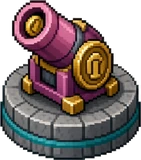
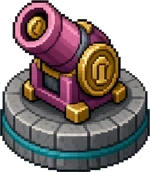
Tower Defense: Comrades and Slop Cannon turn to face up, down and sideways
Brian's Grok sheets give each gun three paintings: facing you, facing
away and facing left (flipped for right). A tower shows whichever is
closest to its aim, with some give near the diagonals so it doesn't
flicker. Facing you or away, the twin gun punches instead of sliding,
and the muzzle flash alternates between its barrels.

td_art.py gains --center-base, so a painting whose barrels stick out to
one side still stands on the middle of its pedestal.

Claude-Session: https://claude.ai/code/session_015YU1nTMxka9UNEvD74o9D1

diff --git a/js/td.js b/js/td.js
@@ -166,7 +166,8 @@
   // in pixels is its size on the map. Each one is redrawn once per screen size onto a canvas at the exact
   // size it's stamped at, so the frame stays cheap on a phone.
   var ART = 'art/td/', PPT = 160;
-  var PIC_NAMES = ['hearing-map', 'tower-strike', 'tower-privacy', 'tower-mint', 'tower-rug', 'enemy-walker', 'enemy-swarm', 'enemy-sprinter',
+  var PIC_NAMES = ['hearing-map', 'tower-strike', 'tower-strike-down', 'tower-strike-up', 'tower-privacy', 'tower-mint', 'tower-mint-down',
+    'tower-mint-up', 'tower-rug', 'enemy-walker', 'enemy-swarm', 'enemy-sprinter',
     'enemy-support', 'enemy-armored', 'enemy-flyer', 'enemy-boss', 'node-toly', 'node-toly-lights'];
   var PICS = {}, picsReady = null;
   function loadPics() {
@@ -210,20 +211,42 @@
     ctx.restore();
   }
 
-  // The towers face left as painted, and flip to face a target on the right. Above CUT (a fraction of the
-  // height) is the part that recoils when it fires; below it, the pedestal stays put. MUZZLE: the gun's
-  // barrel tips, in tiles from the spot it stands on, for the muzzle flash.
-  var TOWER_CUT = { strike: 0.6, privacy: 1, mint: 0.62, rug: 0.6 };
-  var MUZZLE = { x: -0.36, y: -0.4 };
+  // A tower that aims has three paintings: facing left (flipped to face right), facing down (toward you)
+  // and facing up (away from you). The guns turn to whichever is closest to their target. Above CUT (a
+  // fraction of the height) is the part that recoils when it fires; below it, the pedestal stays put.
+  // MUZZLE: the barrel tips, in tiles from the spot it stands on, for the muzzle flash (two: a twin gun's
+  // barrels sit that far either side). Every sheet is cut so the pedestals are PEDESTAL tiles across.
+  var VIEWS = { strike: ['side', 'down', 'up'], mint: ['side', 'down', 'up'], privacy: ['side'], rug: ['side'] };
+  var TOWER_CUT = {
+    strike: { side: 0.59, down: 0.55, up: 0.61 }, mint: { side: 0.7, down: 0.64, up: 0.69 },
+    privacy: { side: 1 }, rug: { side: 0.6 }
+  };
+  var MUZZLE = { side: { x: -0.36, y: -0.4 }, down: { x: 0, y: -0.3, two: 0.13 }, up: { x: 0, y: -0.84, two: 0.1 } };
+  var PEDESTAL = 0.76;
   function buildTowerSprites() {
     var out = {};
     C.ORDER.forEach(function (type) {
-      var name = 'tower-' + type, im = PICS[name], cut = TOWER_CUT[type];
-      // it stands on the middle of its pedestal's round footprint
-      var ay = im && im.naturalWidth ? 1 - 0.19 * im.naturalWidth / im.naturalHeight : 0.85;
-      out[type] = { whole: pic(name, 0.5, ay), base: pic(name, 0.5, ay, 1, cut, 1), top: cut < 1 ? pic(name, 0.5, ay, 1, 0, cut) : null, cut: cut };
+      out[type] = {};
+      VIEWS[type].forEach(function (view) {
+        var name = 'tower-' + type + (view === 'side' ? '' : '-' + view), im = PICS[name], cut = TOWER_CUT[type][view];
+        // it stands on the middle of its pedestal's round footprint
+        var ay = im && im.naturalWidth ? 1 - 0.19 * PEDESTAL * PPT / im.naturalHeight : 0.85;
+        out[type][view] = { whole: pic(name, 0.5, ay), base: pic(name, 0.5, ay, 1, cut, 1), top: cut < 1 ? pic(name, 0.5, ay, 1, 0, cut) : null, cut: cut };
+      });
     });
     return out;
+  }
+  // Which way a tower shows, from its aim, with some give so it doesn't flicker near a diagonal.
+  function towerView(t) {
+    var cx = Math.cos(t.angle), sy_ = Math.sin(t.angle), v = t._view || 'side';
+    if (VIEWS[t.type].length > 1) {
+      if (v === 'side') { if (sy_ > 0.8) v = 'down'; else if (sy_ < -0.8) v = 'up'; }
+      else if (Math.abs(sy_) < 0.6) v = 'side';
+      else v = sy_ > 0 ? 'down' : 'up';
+    }
+    if (cx > 0.2) t._flip = true; else if (cx < -0.2) t._flip = false;
+    t._view = v;
+    return v;
   }
   // Enemies are drawn a bit over their cut size, so the people read on a phone, and the Filibuster towers
   // over the filing cabinets. The people also get a little size variety, so a crowd doesn't look stamped.
@@ -543,7 +566,9 @@
       case 'fire':
         ev.t.kick = 1;
         if (ev.t.type === 'strike') {
-          var dir = Math.cos(ev.t.angle) > 0 ? 1 : -1, mx = sx(ev.t.x) - dir * MUZZLE.x * T, my = towerY(ev.t) + MUZZLE.y * T;
+          var view = towerView(ev.t), mz = MUZZLE[view], dir = ev.t._flip ? 1 : -1, mx, my = towerY(ev.t) + mz.y * T;
+          if (view === 'side') mx = sx(ev.t.x) - dir * mz.x * T;
+          else { ev.t._barrel = !ev.t._barrel; mx = sx(ev.t.x) + (ev.t._barrel ? 1 : -1) * mz.two * T; }
           fx({ kind: 'flash', x: mx, y: my, life: 0.07, max: 0.07, color: 'strike', size: 0.9 });
           sfx('td.pew', 45);
         } else if (ev.t.type === 'mint') sfx('td.thump', 80);
@@ -773,7 +798,7 @@
   }
 
   function drawTower(c, t, now, dt) {
-    var T = S.T, sp = S.spr.tower[t.type], X = sx(t.x), Y = towerY(t);
+    var T = S.T, view = towerView(t), sp = S.spr.tower[t.type][view], X = sx(t.x), Y = towerY(t);
     var k = TIER_SCALE[t.tier || 1];
     if (t.pop > 0) { t.pop -= dt; var q = 1 - t.pop / 0.3; k *= 0.5 + q * 0.5 + Math.sin(q * Math.PI) * 0.25; }
     t.kick = Math.max(0, (t.kick || 0) - dt * 8);
@@ -785,10 +810,7 @@
       c.globalAlpha = 1; c.globalCompositeOperation = 'source-over';
       if (t.tier === 3 && Math.random() < dt * 3) spark(X + rnd(-0.4, 0.4) * T, Y - rnd(0.2, 1) * T, t.path === 'a' ? ROLE[t.type].l : '#ffd23f', 1, T * 0.6, 0.5);
     }
-    // face the target, with a little give so it doesn't flicker on one straight above or below
-    var cx = Math.cos(t.angle);
-    if (cx > 0.2) t._flip = true; else if (cx < -0.2) t._flip = false;
-    var fl = t._flip ? -1 : 1;
+    var fl = view === 'side' && t._flip ? -1 : 1;
     if (k !== 1) { c.save(); c.translate(X, Y); c.scale(k, k); c.translate(-X, -Y); }
     c.fillStyle = 'rgba(0,0,0,.3)';
     c.beginPath(); c.ellipse(X, Y + T * 0.06, T * 0.46, T * 0.17, 0, 0, Math.PI * 2); c.fill();
@@ -797,7 +819,8 @@
       stampT(c, sp.base, X, Y, 0, fl, 1);
       var cutY = Y - (sp.top.ay - sp.cut * sp.top.h) * T;   // where the turret meets the pedestal
       c.save();
-      if (t.type === 'strike') c.translate(fl * t.kick * T * 0.07, 0);                       // recoil away from the target
+      if (t.type === 'strike' && view === 'side') c.translate(fl * t.kick * T * 0.07, 0);    // recoil away from the target
+      else if (t.type === 'strike') { c.translate(X, cutY); c.scale(1 + t.kick * 0.04, 1 - t.kick * 0.09); c.translate(-X, -cutY); }  // facing you or away: it punches
       else if (t.type === 'mint') { c.translate(X, cutY); c.scale(1 + t.kick * 0.08, 1 - t.kick * 0.14); c.translate(-X, -cutY); }  // the mortar squashes
       else if (t.type === 'rug') c.translate(-fl * t.kick * T * 0.06, 0);                    // the frame lunges at it
       stampT(c, sp.top, X, Y, 0, fl, 1);
@@ -1120,7 +1143,7 @@
     rangeCircle(c, at.c + 0.5, at.r + 0.5, h, range, type, true);
     c.globalAlpha = 0.65;
     var X = sx(at.c + 0.5), Y = sy(at.r + 0.5, h) + T * 0.1;
-    stamp(c, S.spr.tower[type].whole, X, Y);
+    stamp(c, S.spr.tower[type].side.whole, X, Y);
     c.globalAlpha = 1;
     c.strokeStyle = ok ? '#3ddc97' : '#ff4d4d'; c.lineWidth = 2.5;
     c.strokeRect(sx(at.c) + 1.5, sy(at.r, h) + 1.5, T - 3, T - 3);

diff --git a/tools/td_art.py b/tools/td_art.py
@@ -13,6 +13,11 @@ its size in tiles from its size in pixels.
 --ppt: how many source pixels make one map tile (bigger number, smaller sprite).
 --gap x,y: a white pocket inside the art to clear (the space inside a frame), as in tools/art.py.
 
+--center-base pads each one sideways so the middle of its pedestal (its bottom rows) is the middle of
+the picture, so a tower whose barrels stick out to one side still stands on its pedestal's center.
+
+  python3 tools/td_art.py sheet SOURCE art/td --names tower-strike-down,tower-strike-up,tower-strike --ppt 553 --center-base
+
 A single picture (Toly's node) is the same with 'one'. --lights also saves the glowing teal
 pixels as their own layer (<name>-lights.webp), so the game can blink them, or turn them red.
 
@@ -51,8 +56,23 @@ def is_light(r, g, b):
     return g > 150 and b > 150 and r < 140 and g - r > 70
 
 
-def save(im, out, ppt, lights):
+def center_base(im, frac=0.12):
+    """Pad sideways so the art in the bottom rows (the pedestal) sits in the middle."""
+    w, h = im.size
+    box = im.getchannel('A').point(lambda v: 255 if v > 40 else 0).crop((0, int(h * (1 - frac)), w, h)).getbbox()
+    if not box:
+        return im
+    mid = (box[0] + box[2]) / 2
+    left, right = max(0, round(w - 2 * mid)), max(0, round(2 * mid - w))
+    out = Image.new('RGBA', (w + left + right, h), (0, 0, 0, 0))
+    out.paste(im, (left, 0))
+    return out
+
+
+def save(im, out, ppt, lights, centered=False):
     im = im.crop(im.getchannel('A').getbbox())
+    if centered:
+        im = center_base(im)
     k = OUT_PPT / ppt
     size = (max(1, round(im.size[0] * k)), max(1, round(im.size[1] * k)))
     small = im.resize(size, Image.LANCZOS)
@@ -79,6 +99,7 @@ def main():
     ap.add_argument('--ppt', type=float, required=True)
     ap.add_argument('--gap', action='append', default=[])
     ap.add_argument('--lights', action='store_true')
+    ap.add_argument('--center-base', action='store_true')
     args = ap.parse_args()
 
     im = Image.open(args.source).convert('RGBA')
@@ -99,7 +120,7 @@ def main():
         ppt = args.ppt
         if ':' in name:
             name, ppt = name.split(':')[0], float(name.split(':')[1])
-        save(im.crop((x0, 0, x1, im.size[1])), os.path.join(args.outdir, name), ppt, args.lights)
+        save(im.crop((x0, 0, x1, im.size[1])), os.path.join(args.outdir, name), ppt, args.lights, args.center_base)
 
 
 if __name__ == '__main__':
